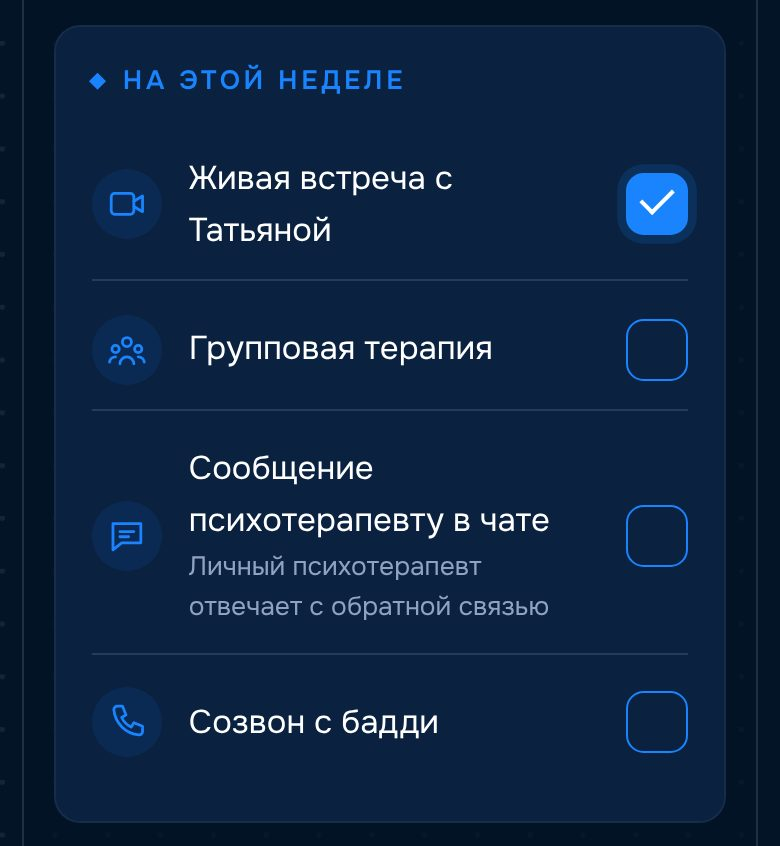
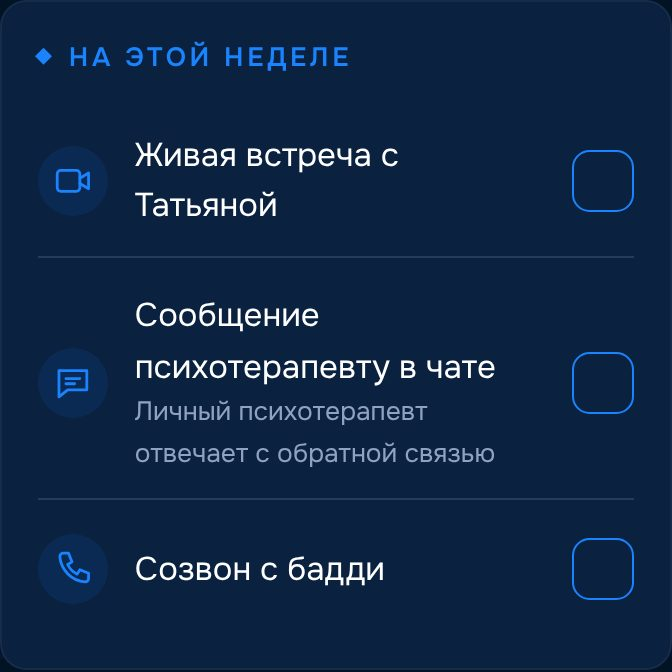
Инструкция: убрана групповая терапия из скриншотов и текста
Claude-Session: https://claude.ai/code/session_01Ap7g13T5idtYD8rgZRr2ux

diff --git a/guide.html b/guide.html
@@ -121,7 +121,7 @@ figure.small img { max-width: 390px; }
     <figure><img src="guide/02-week-top.jpg" alt="Верх недели: приветствие, кольцо прогресса, выбор недели и блок встречи с кнопками эфира и записи" width="390" height="700" loading="lazy"></figure>
 
     <p>Ниже отмечайте галочками, что сделали за неделю:</p>
-    <figure><img src="guide/03-week-checks.jpg" alt="Список на этой неделе: встреча с Татьяной, групповая терапия, сообщение психотерапевту, созвон с бадди" width="390" height="423" loading="lazy"></figure>
+    <figure><img src="guide/03-week-checks.jpg" alt="Список на этой неделе: встреча с Татьяной, сообщение психотерапевту, созвон с бадди" width="336" height="336" loading="lazy"></figure>
 
     <p><b>Протокол для подсознания во сне</b> — отмечайте каждую ночь, когда слушали протокол перед сном. Первая неделя начинается с четверга, дальше недели идут с понедельника по воскресенье.</p>
     <figure><img src="guide/04-nights.jpg" alt="Протокол во сне: отметки по ночам с датами" width="390" height="270" loading="lazy"></figure>
@@ -156,8 +156,8 @@ figure.small img { max-width: 390px; }
   <section id="total">
     <p class="step">Шаг 7</p>
     <h2>Итоги</h2>
-    <p>Здесь собирается всё, что вы отметили: встречи, групповые терапии, практики, ночи с протоколом, доход и состояние по неделям. Ничего заполнять не нужно, кроме дохода и оценки результатов в конце программы.</p>
-    <figure><img src="guide/09-total.jpg" alt="Итоги программы: встречи с Татьяной, групповые терапии, практики, ночи с протоколом" width="390" height="294" loading="lazy"></figure>
+    <p>Здесь собирается всё, что вы отметили: встречи, практики, ночи с протоколом, доход и состояние по неделям. Ничего заполнять не нужно, кроме дохода и оценки результатов в конце программы.</p>
+    <figure><img src="guide/09-total.jpg" alt="Итоги программы: встречи с Татьяной, практики, ночи с протоколом" width="390" height="294" loading="lazy"></figure>
   </section>
 
   <div class="foot">
